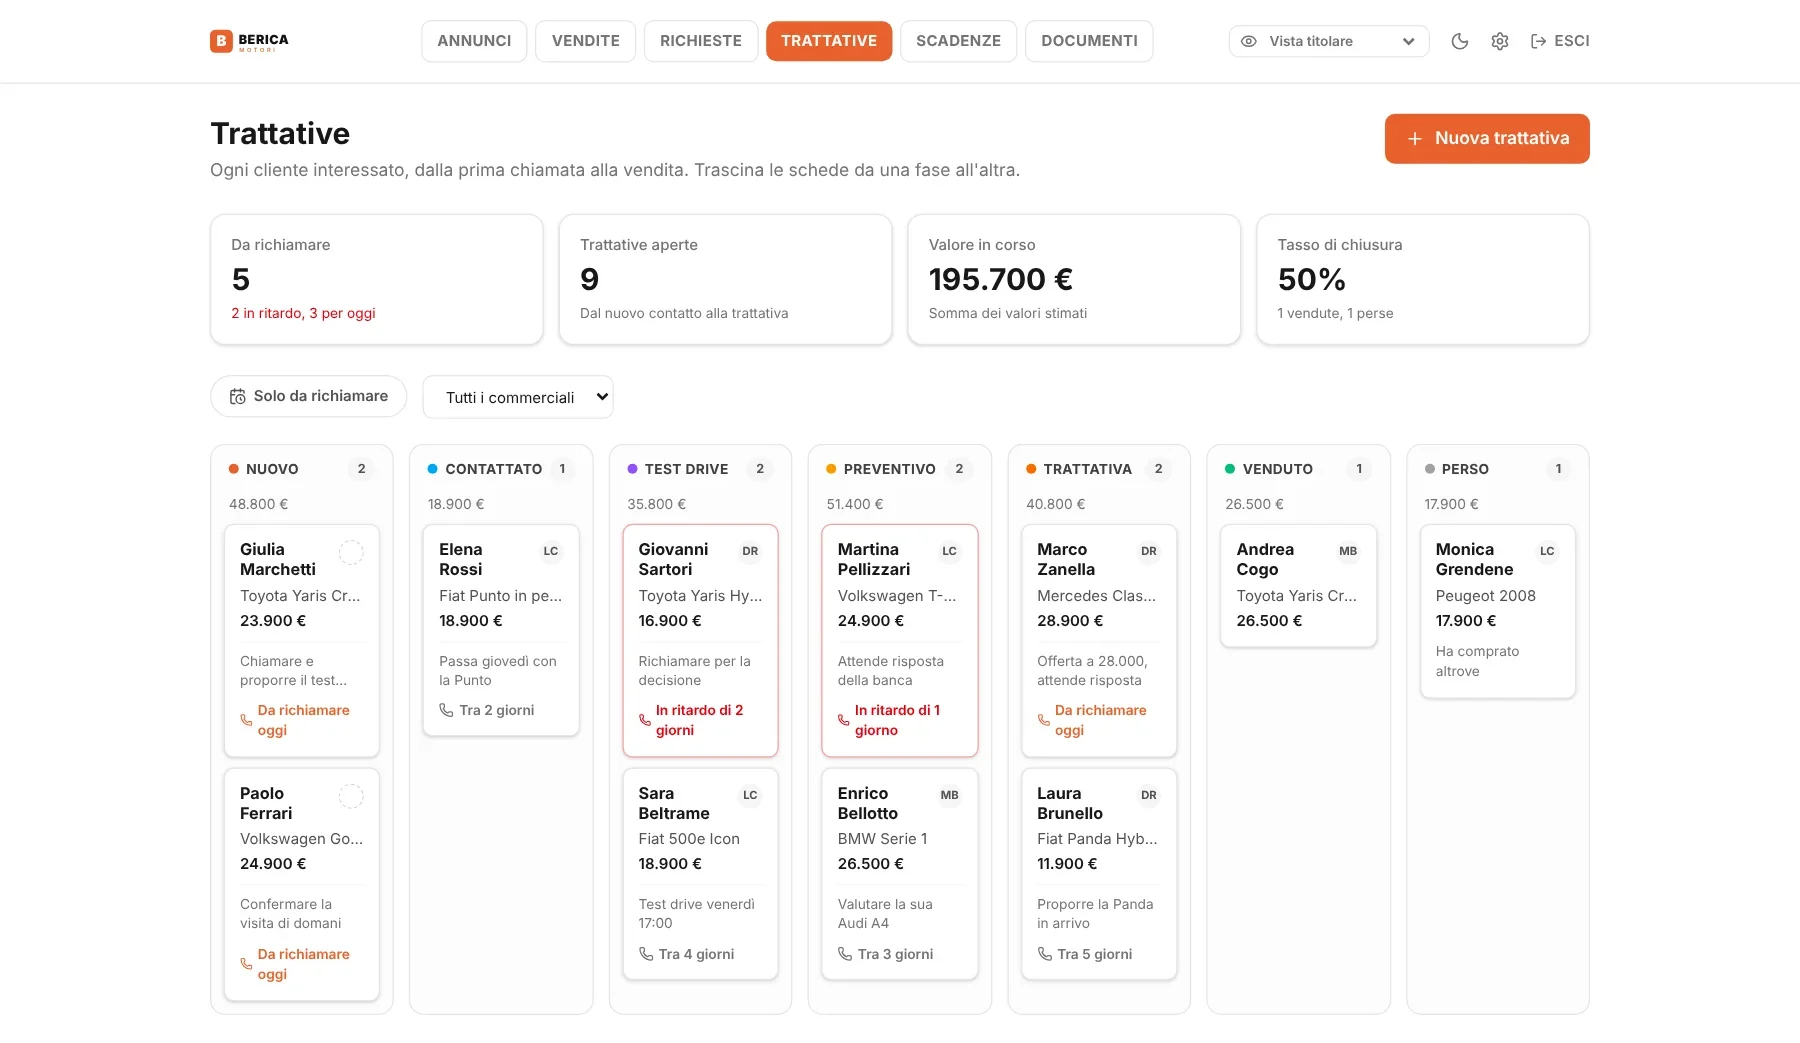
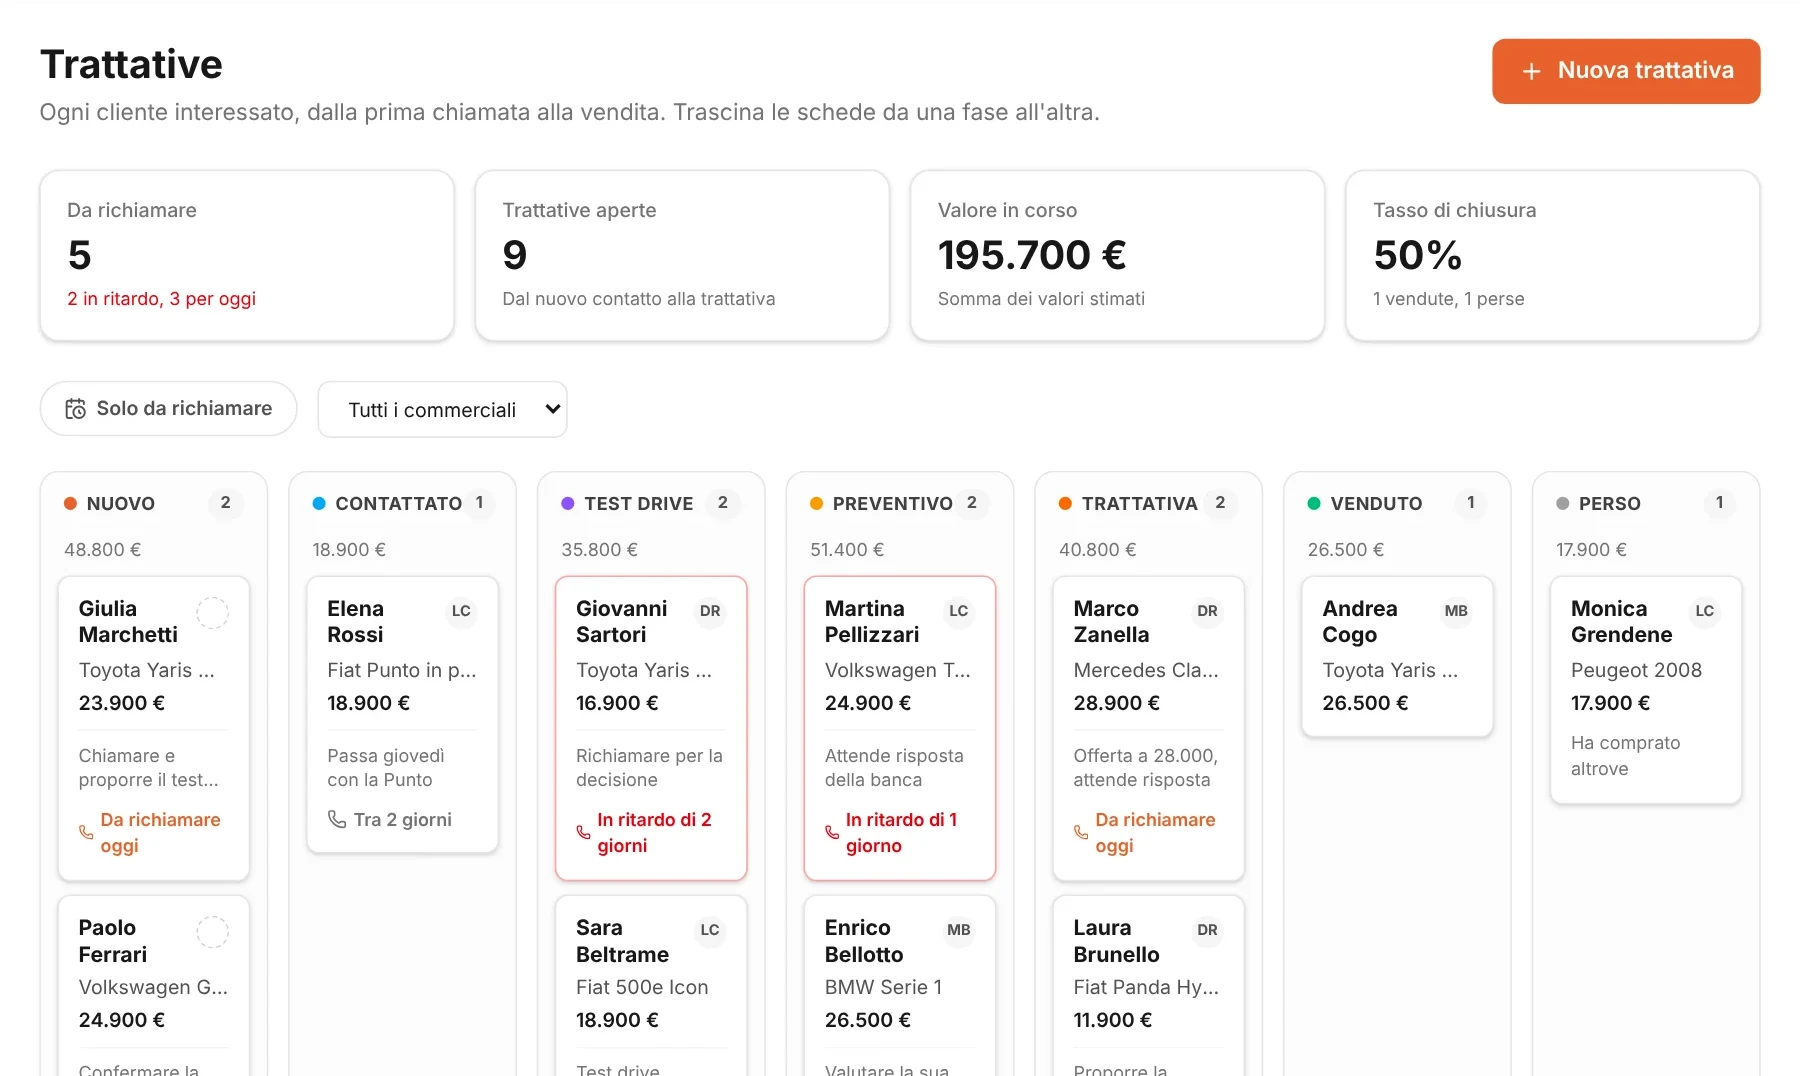
Sezione CRM ridisegnata: titolo centrato, screenshot grande e leggibile, 4 card, CTA
Claude-Session: https://claude.ai/code/session_014cp84hLTRu3HqxcnK43Fu3

diff --git a/index.html b/index.html
@@ -306,24 +306,24 @@
 
 <!-- PRIMA E DOPO -->
 <!-- CRM -->
-<section class="section" id="crm">
-  <div class="wrap crm-grid">
-    <div class="crm-copy">
+<section class="section dark-2" id="crm">
+  <div class="wrap">
+    <div class="section-head center">
       <p class="eyebrow">CRM incluso</p>
       <h2 class="h2">Nessun cliente si perde per strada.</h2>
       <p class="lead">Ogni persona interessata a un'auto diventa una trattativa. Sai a che punto è, cosa devi fare e quando richiamarla.</p>
-      <ul class="crm-points">
-        <li><strong>Una pipeline chiara</strong><span>Dal nuovo contatto alla vendita, in 7 fasi. Trascini la scheda e la fase si aggiorna.</span></li>
-        <li><strong>Richiami che non scappano</strong><span>Ogni trattativa ha la prossima azione e una data. Se salta, il gestionale te lo segnala.</span></li>
-        <li><strong>Lo storico sempre a portata di mano</strong><span>Chiamate, visite e note restano sulla scheda, anche se a seguire il cliente è un collega.</span></li>
-        <li><strong>Collegato alle richieste del sito</strong><span>Un contatto arrivato dal sito diventa una trattativa con un clic, con i dati già compilati.</span></li>
-      </ul>
-      <div class="crm-cta"><a href="#demo" class="btn btn-ink">Prova il CRM nella demo</a></div>
     </div>
-    <div class="crm-shot spot" aria-hidden="false">
+    <div class="crm-shot spot">
       <div class="win-bar" aria-hidden="true"><i></i><i></i><i></i><span>gestionale · Berica Motori · Trattative</span></div>
-      <img src="/prodotto/crm.webp" width="1800" height="1043" loading="lazy" alt="Il CRM del gestionale: le trattative organizzate per fase, con i richiami in evidenza">
+      <img src="/prodotto/crm.webp" width="1800" height="1076" loading="lazy" alt="Il CRM del gestionale: le trattative organizzate per fase, con i richiami in evidenza">
     </div>
+    <div class="crm-cards">
+      <article class="crm-card"><span class="feature-icon"><svg width="22" height="22" viewBox="0 0 24 24" fill="none" stroke="#F2F3F5" stroke-width="1.8" stroke-linecap="round" stroke-linejoin="round" aria-hidden="true"><rect x="3" y="4" width="5" height="16" rx="1.5"/><rect x="10" y="4" width="5" height="10" rx="1.5"/><rect x="17" y="4" width="4" height="6" rx="1.5"/></svg></span><h3>Una pipeline chiara</h3><p>Dal nuovo contatto alla vendita in 7 fasi. Trascini la scheda e la fase si aggiorna.</p></article>
+      <article class="crm-card"><span class="feature-icon"><svg width="22" height="22" viewBox="0 0 24 24" fill="none" stroke="#F2F3F5" stroke-width="1.8" stroke-linecap="round" stroke-linejoin="round" aria-hidden="true"><circle cx="12" cy="13" r="8"/><path d="M12 9v4l3 2M9 2h6"/></svg></span><h3>Richiami che non scappano</h3><p>Ogni trattativa ha la prossima azione e una data. Se salta, il gestionale te lo segnala.</p></article>
+      <article class="crm-card"><span class="feature-icon"><svg width="22" height="22" viewBox="0 0 24 24" fill="none" stroke="#F2F3F5" stroke-width="1.8" stroke-linecap="round" stroke-linejoin="round" aria-hidden="true"><path d="M4 5h16v11H9l-5 4zM8 9h8M8 12h5"/></svg></span><h3>Storico sempre a portata</h3><p>Chiamate, visite e note restano sulla scheda, anche se a seguire il cliente è un collega.</p></article>
+      <article class="crm-card"><span class="feature-icon"><svg width="22" height="22" viewBox="0 0 24 24" fill="none" stroke="#F2F3F5" stroke-width="1.8" stroke-linecap="round" stroke-linejoin="round" aria-hidden="true"><path d="M10 14a4 4 0 0 0 5.7 0l3-3a4 4 0 0 0-5.7-5.7l-1 1M14 10a4 4 0 0 0-5.7 0l-3 3a4 4 0 0 0 5.7 5.7l1-1"/></svg></span><h3>Collegato al sito</h3><p>Un contatto arrivato dal sito diventa una trattativa con un clic, con i dati già compilati.</p></article>
+    </div>
+    <div class="crm-cta"><a href="#demo" class="btn btn-accent">Prova il CRM nella demo</a></div>
   </div>
 </section>
 

diff --git a/src/style.css b/src/style.css
@@ -564,13 +564,15 @@ img { max-width: 100%; display: block; }
 @media (max-width: 760px) { .next-grid { grid-template-columns: minmax(0, 1fr); } .next-card { padding: 24px; } }
 
 /* CRM */
-.crm-grid { display: grid; grid-template-columns: minmax(0, 5fr) minmax(0, 7fr); gap: 56px; align-items: center; }
-.crm-copy .lead { margin: 16px 0 28px; }
-.crm-points { list-style: none; margin: 0; padding: 0; display: grid; gap: 20px; }
-.crm-points li { display: grid; gap: 4px; padding-left: 18px; border-left: 2px solid var(--line-2); }
-.crm-points strong { font-weight: 600; letter-spacing: -.01em; }
-.crm-points span { color: var(--dim); font-size: 14.5px; line-height: 1.55; }
-.crm-cta { margin-top: 32px; }
-.crm-shot { position: relative; background: var(--surface); border: 1px solid var(--line-2); border-radius: 18px; padding: 10px 10px 0; box-shadow: 0 40px 100px -40px rgba(215, 38, 30, .35), 0 40px 80px -40px #000; overflow: hidden; }
-.crm-shot img { display: block; width: 100%; height: auto; border-radius: 8px 8px 0 0; }
-@media (max-width: 1000px) { .crm-grid { grid-template-columns: minmax(0, 1fr); gap: 40px; } }
+.section-head.center { margin-inline: auto; align-items: center; text-align: center; }
+.section-head.center .eyebrow { align-self: center; }
+.crm-shot { position: relative; margin-top: 56px; background: var(--surface); border: 1px solid var(--line-2); border-radius: 22px; padding: 12px 12px 0; box-shadow: 0 60px 140px -50px rgba(215, 38, 30, .5), 0 50px 100px -40px #000; overflow: hidden; }
+.crm-shot::after { content: ""; position: absolute; left: 0; right: 0; bottom: 0; height: 90px; background: linear-gradient(180deg, transparent, rgba(19, 21, 25, .95)); pointer-events: none; }
+.crm-shot img { display: block; width: 100%; height: auto; border-radius: 10px 10px 0 0; }
+.crm-cards { display: grid; grid-template-columns: repeat(4, minmax(0, 1fr)); gap: 16px; margin-top: 20px; }
+.crm-card { background: var(--surface); border: 1px solid var(--line-2); border-radius: 18px; padding: 26px; }
+.crm-card h3 { font-size: 17px; font-weight: 600; letter-spacing: -.02em; margin: 18px 0 8px; }
+.crm-card p { margin: 0; color: var(--dim); font-size: 14.5px; line-height: 1.6; }
+.crm-cta { margin-top: 44px; display: flex; justify-content: center; }
+@media (max-width: 1000px) { .crm-cards { grid-template-columns: repeat(2, minmax(0, 1fr)); } }
+@media (max-width: 640px) { .crm-cards { grid-template-columns: minmax(0, 1fr); } .crm-shot { margin-top: 36px; border-radius: 16px; padding: 8px 8px 0; } }

diff --git a/src/main.ts b/src/main.ts
@@ -499,7 +499,7 @@ function initUi() {
     window.addEventListener("scroll", onScroll, { passive: true });
   }
 
-  document.querySelectorAll<HTMLElement>(".feature, .tile, .pack-card, .flow li, .link-card, .plan-life, .next-card, .crm-shot").forEach((c) => c.classList.add("spot"));
+  document.querySelectorAll<HTMLElement>(".feature, .tile, .pack-card, .flow li, .link-card, .plan-life, .next-card, .crm-card").forEach((c) => c.classList.add("spot"));
   document.addEventListener("pointermove", (e) => {
     const card = (e.target as HTMLElement).closest<HTMLElement>(".spot");
     if (!card) return;
@@ -520,7 +520,7 @@ function initUi() {
   titles.forEach((t) => splitWords(t));
 
   const targets = document.querySelectorAll<HTMLElement>(
-    ".section-head > :not(.h2), .block-title, .chips li, .site-note, .viewer, .pack-card, .flow li, .pack-note, .tile, .gen-panel, .gen-out, .range, .fixed-row, .calc-out, .stat, .feature, .next-card, .crm-copy > :not(.h2), .crm-shot, .cmp-head, .cmp-row, .steps li, .demo-copy > :not(.h2):not(.section-head), .form-card, .plan, .card-dark, .legal, .faq-item, .cta-box > :not(.h2)",
+    ".section-head > :not(.h2), .block-title, .chips li, .site-note, .viewer, .pack-card, .flow li, .pack-note, .tile, .gen-panel, .gen-out, .range, .fixed-row, .calc-out, .stat, .feature, .next-card, .crm-shot, .crm-card, .cmp-head, .cmp-row, .steps li, .demo-copy > :not(.h2):not(.section-head), .form-card, .plan, .card-dark, .legal, .faq-item, .cta-box > :not(.h2)",
   );
   if (!("IntersectionObserver" in window)) {
     titles.forEach((t) => t.classList.add("in-view"));
